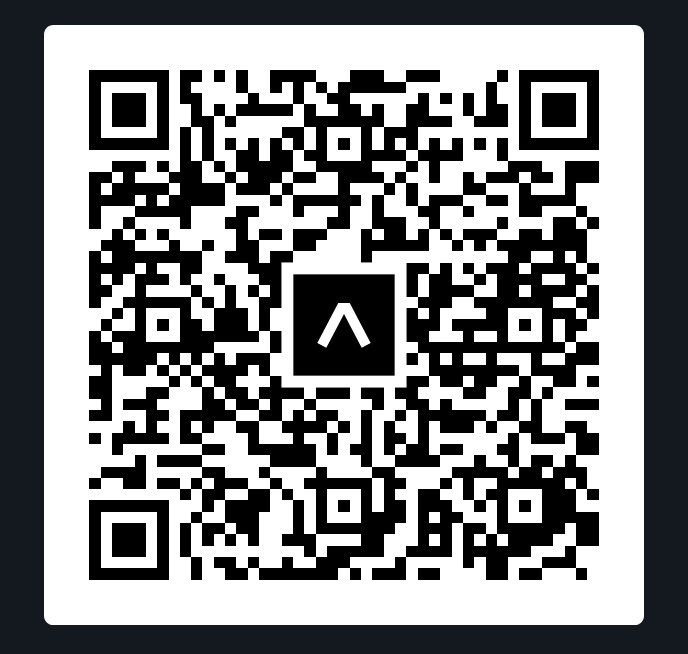
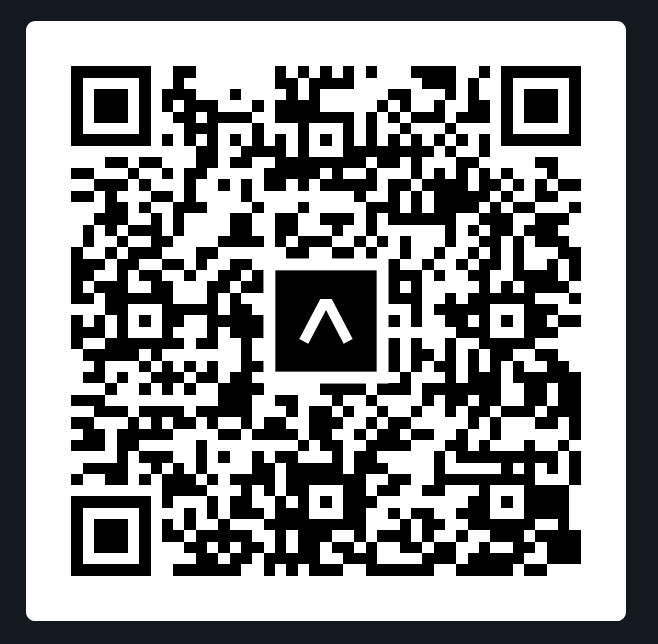
Actualizado con deploy

diff --git a/README.md b/README.md
@@ -4,7 +4,7 @@ Repositorio del grupo 51
 
 # CrytoHub
 
-Aplicación de utilidades de cryptomonedas construida con React Native y Typescript.
+Aplicación de utilidades de cryptomonedas construida con React Native y Typescript en Frontend, NodeJs, Express y MongoDB en Backend.
 
 ## Miembros
 
@@ -16,6 +16,9 @@ Aplicación de utilidades de cryptomonedas construida con React Native y Typescr
 
 ![iOS](./Frontend/assets/ios-deploy.png)
 
+[Link](exp://u.expo.dev/update/7a0e247f-5731-4d09-9190-55e8842ca0f6)
+
 #### Android
 
 ![Android](./Frontend/assets/android-deploy.png)
+[Link](exp://u.expo.dev/update/f7f1346c-824d-4de4-aa2a-dee29b22b12e)
